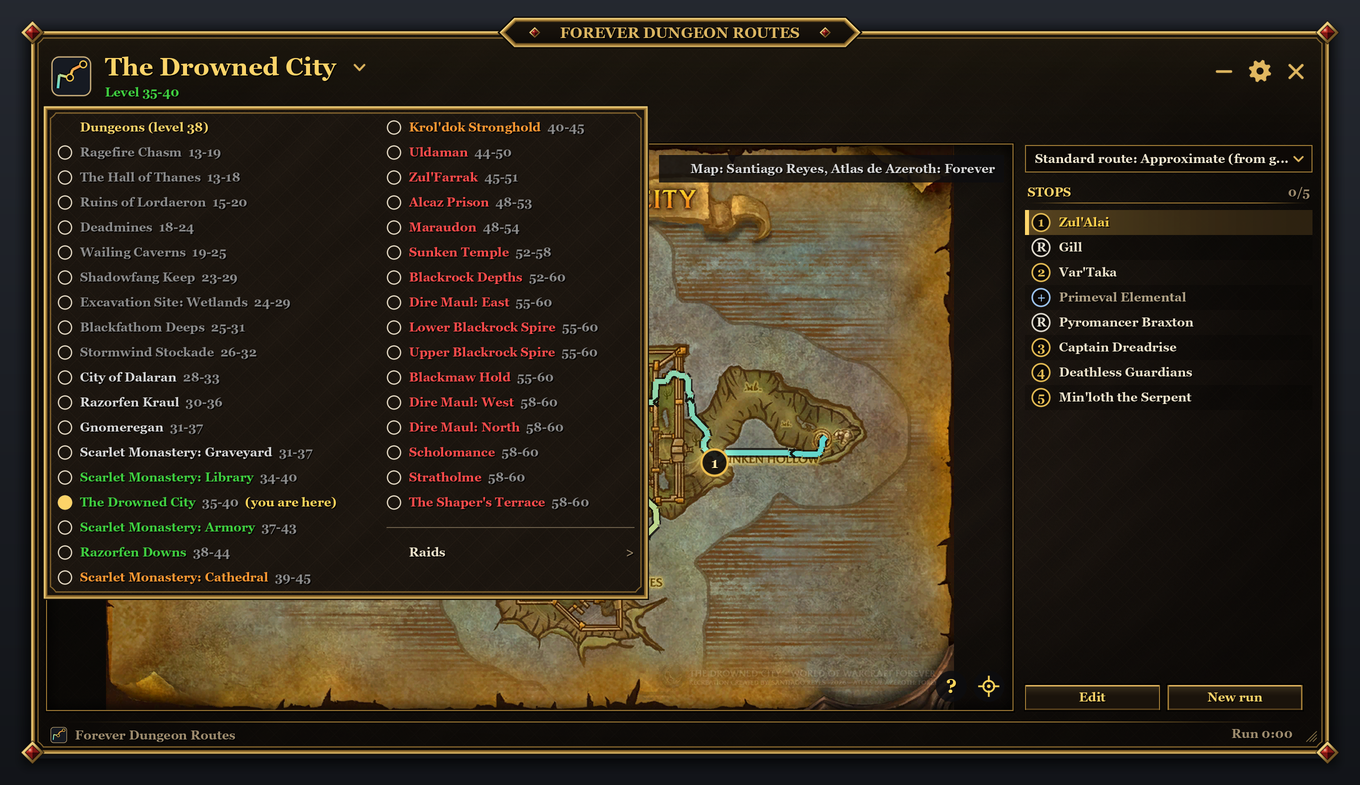
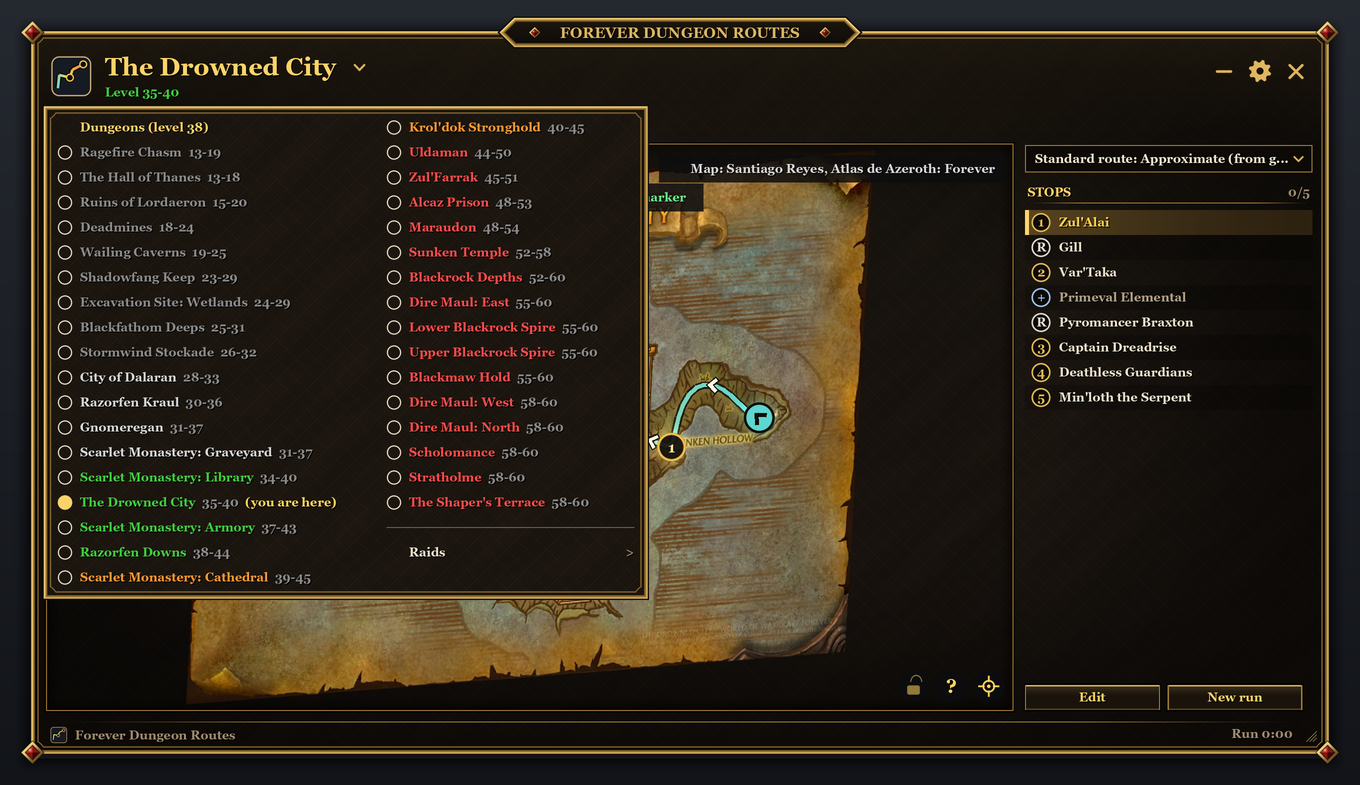
1.3.15: the route of The Drowned City stays on land (a report on CurseForge): from the entrance it follows the arc of the Sunken Hollow over the hill to Zul'Alai instead of straight across the bay, from Zul'Alai it goes west through the gatehouse into the city and over the bridge in the south-east i

Changed region(s): [[0.0618, 0.1834, 0.7103, 0.9172]]

diff --git a/CHANGELOG.md b/CHANGELOG.md
@@ -1,5 +1,15 @@
 # Changelog
 
+## 1.3.15
+
+The route of The Drowned City stays on land now.
+
+- The Drowned City: from the entrance the route follows the arc of the Sunken Hollow over the hill to Zul'Alai,
+  instead of straight across the bay. From Zul'Alai it goes west through the gatehouse into the city and over the
+  bridge in the south-east, instead of across the water in the north-east. Three shorter stretches over water, at
+  Captain Dreadrise and in the north-west, follow the walkways now (thanks for the report).
+- No new files: /reload is enough. Coming from 1.3.13 or older: quit and restart the game once (1.3.14 added a file).
+
 ## 1.3.14
 
 The weekly quest of Booty Bay, very small on the screen.
